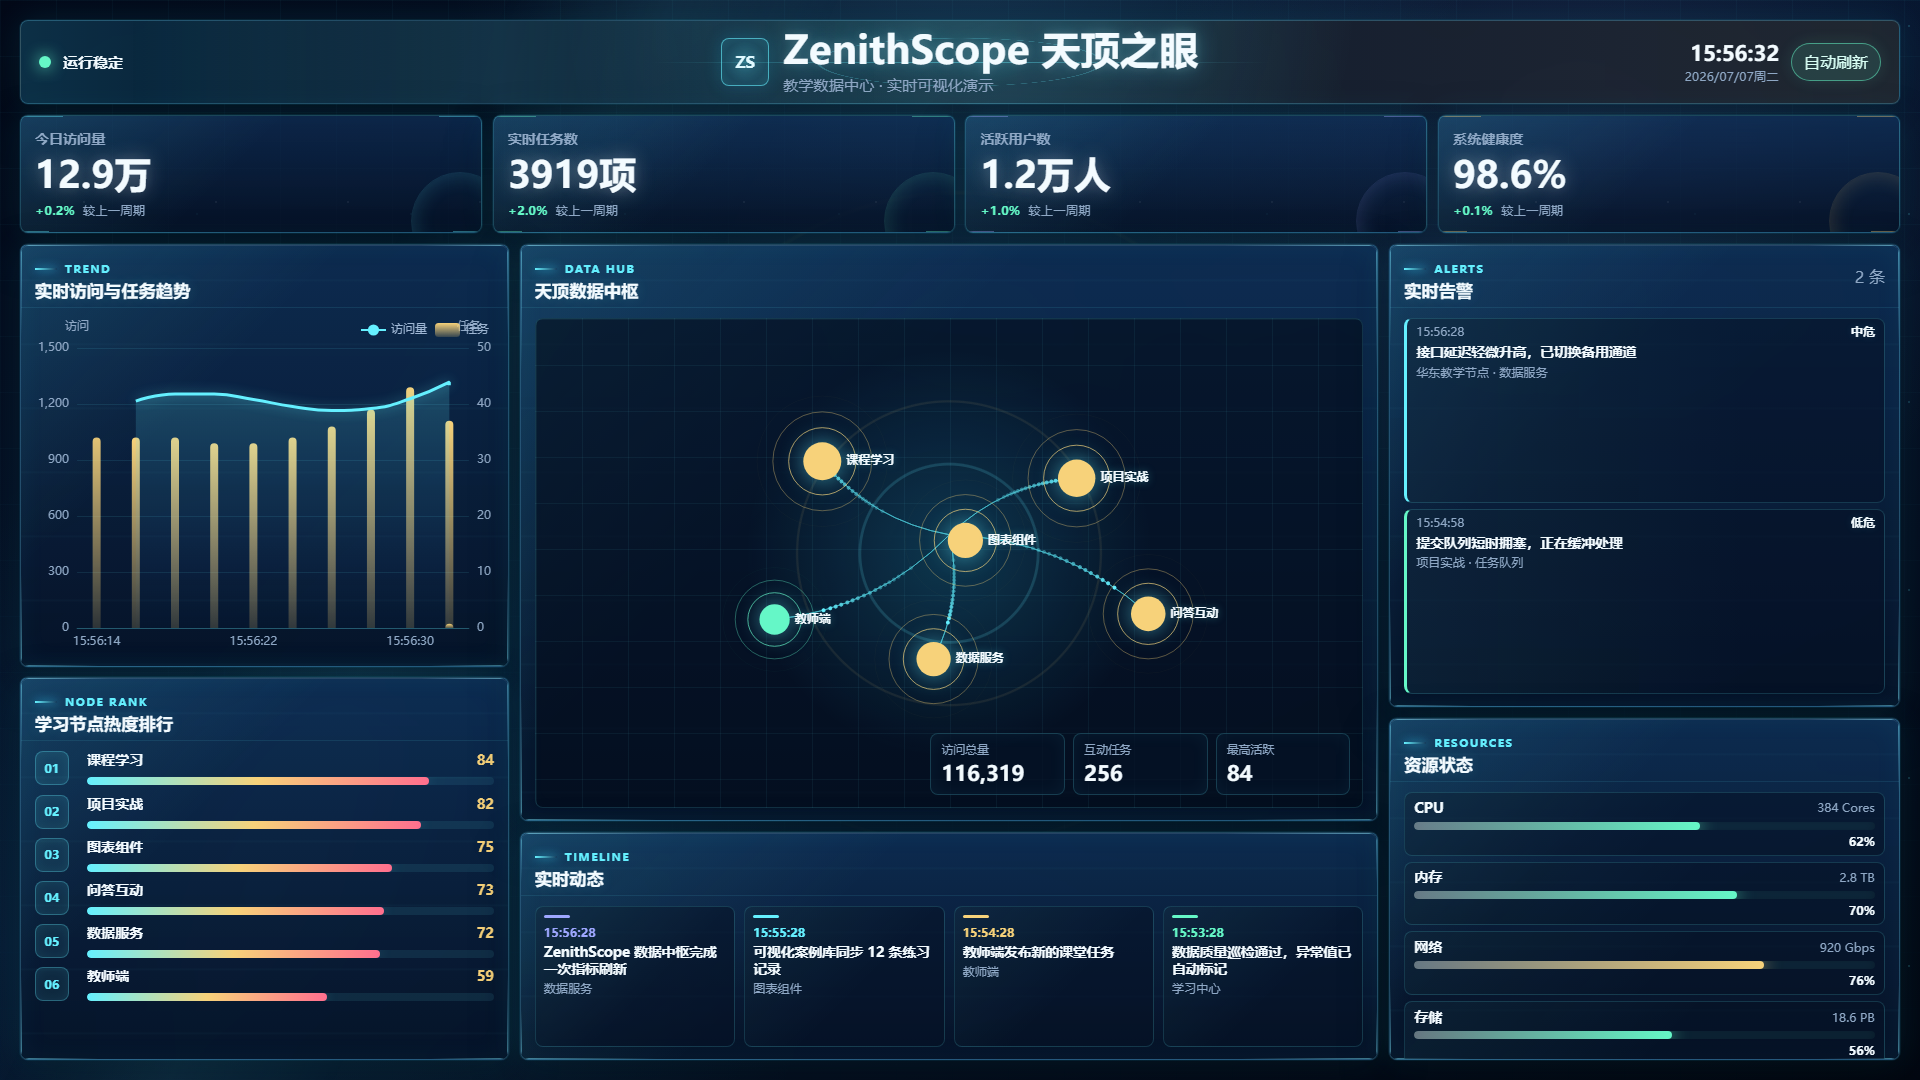
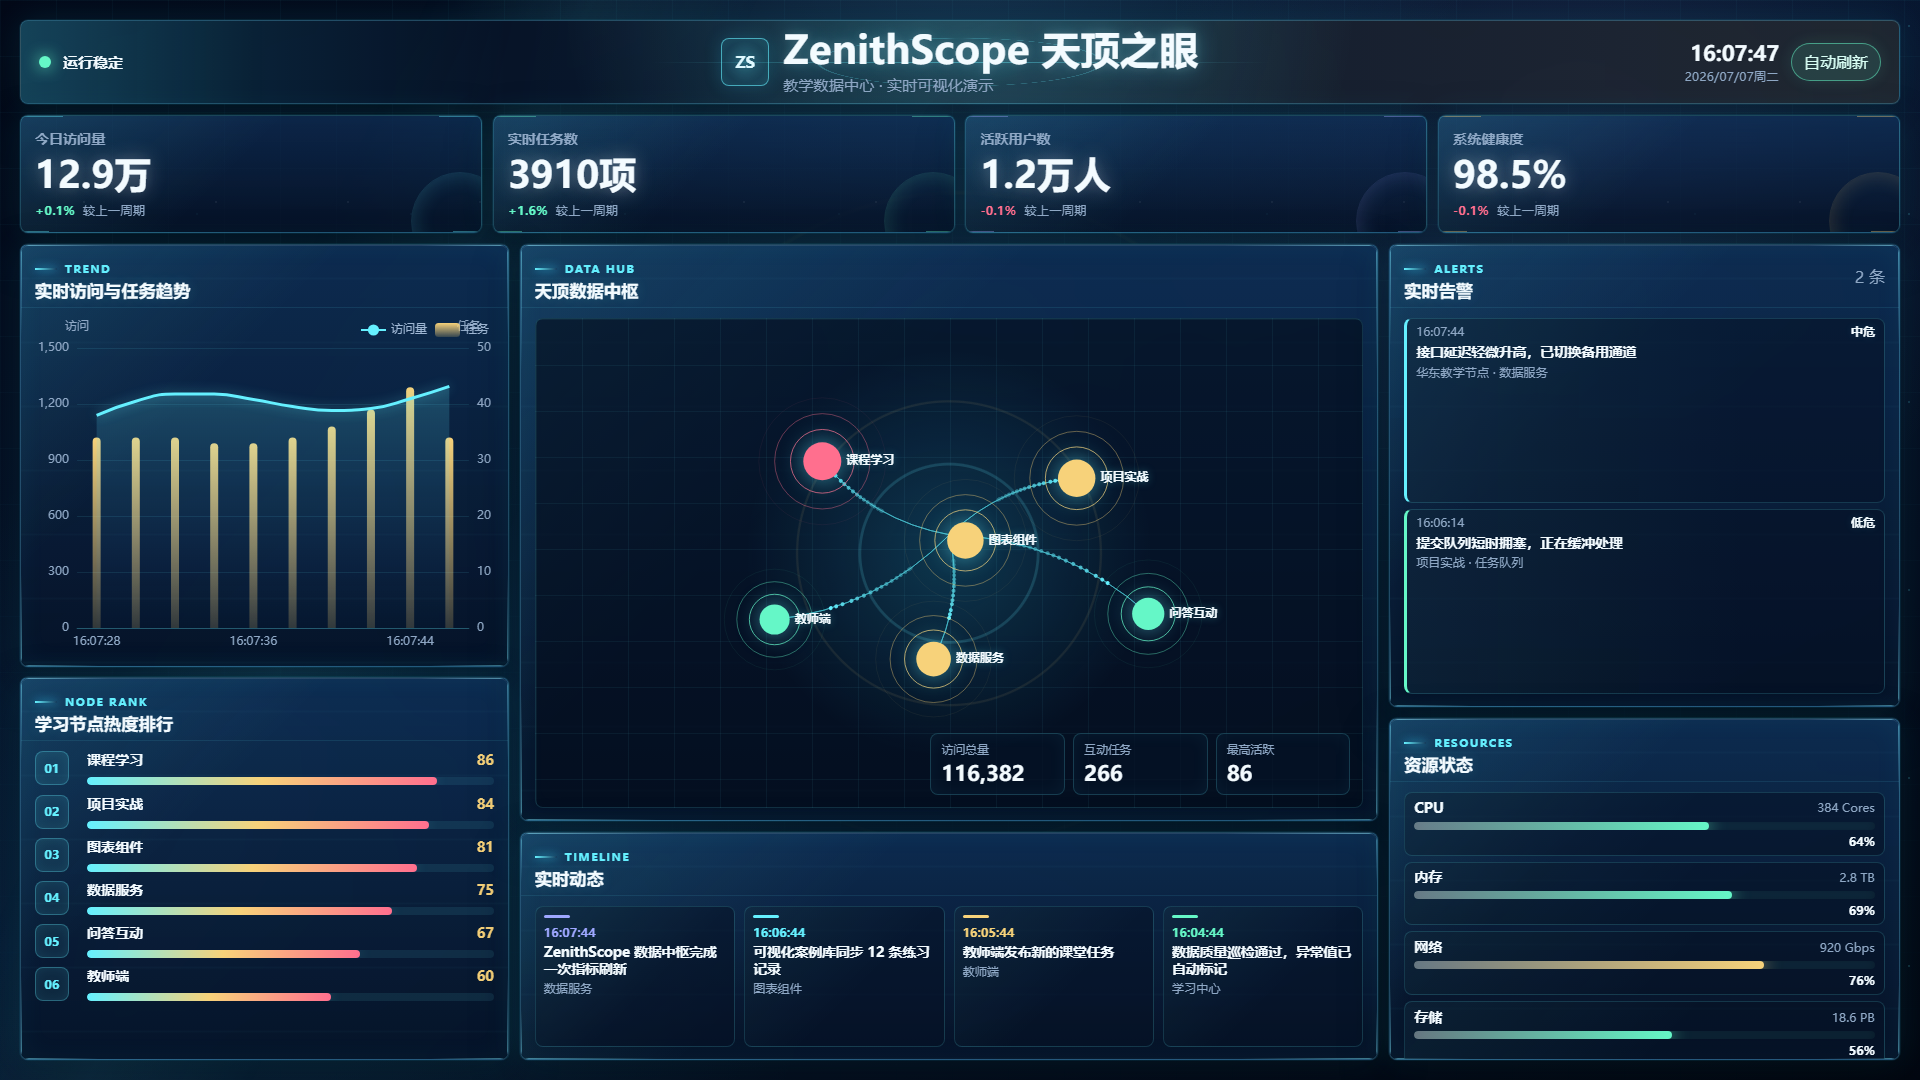
Update project documentation

diff --git a/README.md b/README.md
@@ -1,78 +1,151 @@
-# ZenithScope 天顶之眼
+# ZenithScope｜天顶之眼
 
-ZenithScope 是一个纯前端数据可视化大屏项目，第一阶段聚焦“城市运行监控 / 智慧运维 / 全域态势感知”。当前数据通过 MSW mock API 提供，页面层只依赖 service/query hook，后续可以把接口切到真实 API。
+ZenithScope｜天顶之眼是一个教学型数据可视化大屏项目，用纯前端工程展示如何从页面布局、图表封装、mock 数据到自动化测试，搭建一个完整的数据大屏示例。
 
-当前视觉主题为“天顶星穹科技蓝”：使用深蓝星穹背景、青蓝/冰蓝高亮、星辉金点缀和 HUD 面板质感，适合作为教学型数据大屏示例和开源项目截图展示。
+## 项目预览
 
-本项目保留 MIT License。
+![ZenithScope 天顶之眼](docs/screenshots/dashboard-1920x1080.png)
+
+当前界面采用“天顶星穹科技蓝”视觉风格，包含深色大屏背景、HUD 面板、实时指标、ECharts 图表和模拟数据刷新效果。截图文件位于 `docs/screenshots/dashboard-1920x1080.png`。
+
+## 项目简介
+
+本项目面向前端初学者、数据可视化学习者、课程实践和 AI 辅助编程课堂案例。它不是商业化后台系统，也没有默认接入真实后端；当前重点是把一个大屏项目拆成可学习、可运行、可测试的前端工程结构。
+
+项目页面通过 MSW 提供 mock API，业务组件不直接读取 mock 数据，而是经过 `dashboardApi`、`httpClient` 和 TanStack Query 获取数据。这样既方便本地教学演示，也为后续切换真实 API 留出清晰边界。
+
+## 核心特性
+
+- 纯前端数据大屏：基于 Vite、React 和 TypeScript 构建。
+- 16:9 大屏布局：面向 1920x1080 展示场景设计主页面。
+- ECharts 图表封装：统一封装基础图表组件和图表主题。
+- mock API 数据层：使用 MSW 拦截 `/api/dashboard/*` 接口。
+- 模拟实时变化：指标、趋势、节点、告警、动态和资源状态会按轮询刷新。
+- 状态管理示例：使用 Zustand 控制“自动刷新 / 暂停刷新”状态。
+- 查询层示例：使用 TanStack Query 管理多个 Dashboard 数据请求。
+- 自动化测试：包含 Vitest 单元测试、React Testing Library 组件测试和 Playwright E2E 测试。
+- 自动化截图：提供脚本生成 `docs/screenshots/dashboard-1920x1080.png`。
+- 工程规范：配置 TypeScript strict、ESLint 和 Prettier。
 
 ## 技术栈
 
-- Vite + React + TypeScript
-- Apache ECharts
-- TanStack Query
-- MSW
-- Zustand
-- Vitest + React Testing Library
-- Playwright
-- ESLint + Prettier + TypeScript strict
+| 方向 | 当前使用 |
+| --- | --- |
+| 前端框架 | React 19、React DOM |
+| 构建工具 | Vite 8 |
+| 开发语言 | TypeScript 6 |
+| 图表 | Apache ECharts |
+| 数据请求与缓存 | TanStack Query |
+| mock 数据 | MSW |
+| 状态管理 | Zustand |
+| 单元与组件测试 | Vitest、React Testing Library、jest-dom、user-event |
+| E2E 测试与截图 | Playwright |
+| 代码质量 | ESLint、Prettier、TypeScript strict |
 
-## 本地运行
+## 页面内容
+
+当前 Dashboard 页面入口为 `src/pages/DashboardPage/DashboardPage.tsx`，主应用入口为 `src/app/App.tsx`。页面由以下模块组成：
+
+- 顶部标题、运行状态、日期时间与自动刷新开关
+- 核心指标卡片：今日访问量、实时任务数、活跃用户数、系统健康度
+- 实时访问与任务趋势图
+- 学习节点热度排行
+- 天顶数据中枢节点图与摘要
+- 实时告警列表
+- 实时动态时间线
+- 资源状态面板
+
+## 实时数据模拟
+
+项目已经实现前端 mock 实时数据模拟，核心逻辑位于 `src/shared/mock/realtimeDashboardSimulator.ts`。TanStack Query 在自动刷新开启时每 2 秒重新请求数据，MSW handler 会返回模拟器中的当前数据帧。
+
+当前会模拟变化的内容包括：
+
+- 顶部核心指标数值和涨跌幅
+- 实时访问与任务趋势窗口
+- 天顶数据中枢节点活跃指数、访问量和互动任务
+- 实时动态列表
+- 实时告警列表
+- CPU、内存、网络、存储资源状态
+
+这些数据仍然是浏览器端 mock 数据，不代表真实后端或真实业务监控数据。
+
+## 项目结构
+
+```text
+.
+├─ docs/
+│  └─ screenshots/                 # 项目截图
+├─ e2e/                             # Playwright E2E 测试
+├─ public/                          # 静态资源与 MSW worker
+├─ scripts/
+│  └─ capture-dashboard.mjs         # 自动化截图脚本
+├─ src/
+│  ├─ app/                          # 应用入口、Provider、全局样式
+│  ├─ features/dashboard/           # Dashboard 类型、API、query hook、适配逻辑
+│  ├─ pages/DashboardPage/          # 大屏页面入口与页面样式
+│  ├─ shared/                       # API、mock、chart、store、ui、utils 等共享模块
+│  ├─ tests/                        # Vitest 测试与 setup
+│  └─ widgets/                      # Header、指标卡、图表、告警、排行等业务组件
+├─ package.json
+├─ playwright.config.ts
+├─ tsconfig.json
+└─ vite.config.ts
+```
+
+## 快速开始
+
+环境要求：
+
+- Node.js：建议使用当前 Vite 版本可支持的 LTS 或较新版本。
+- npm：项目已包含 `package-lock.json`，推荐使用 npm 安装依赖。
+
+安装依赖：
 
 ```bash
 npm install
-npm run dev
 ```
 
-默认访问 `http://localhost:5173`。开发环境默认启用 MSW mock。
-
-如需临时关闭 mock：
+启动开发服务，统一使用 10001 端口：
 
 ```bash
-VITE_ENABLE_MSW=false npm run dev
+npm run dev -- --host 127.0.0.1 --port 10001
 ```
 
-真实 API 地址可以通过 `VITE_API_BASE_URL` 注入，例如：
-
-```bash
-VITE_API_BASE_URL=https://api.example.com npm run dev
-```
-
-## 常用脚本
-
-- `npm run dev`：启动开发服务
-- `npm run build`：TypeScript 编译并构建生产包
-- `npm run preview`：预览生产构建
-- `npm run test`：运行 Vitest
-- `npm run test:e2e`：运行 Playwright 端到端测试
-- `npm run lint`：运行 ESLint
-- `npm run format`：运行 Prettier 格式化
-- `npm run typecheck`：运行 TypeScript strict 检查
-- `npm run quality`：依次执行 typecheck、lint、test、build
-
-## 目录结构
+浏览器访问：
 
 ```text
-src/
-  app/                 应用入口、Provider、全局样式
-  pages/               页面级模块
-  widgets/             大屏业务组件
-  features/dashboard/  Dashboard API、query hook、类型和适配逻辑
-  shared/api/          httpClient 和 endpoint
-  shared/chart/        ECharts 基础封装和图表主题
-  shared/config/       环境变量读取
-  shared/logger/       统一日志封装
-  shared/mock/         MSW browser、handlers 和 mock 数据
-  shared/store/        少量全局 UI 状态
-  shared/ui/           通用 UI 组件
-  shared/utils/        工具函数
-  tests/               Vitest/RTL 测试配置与单元测试
-e2e/                   Playwright 测试
+http://127.0.0.1:10001/
 ```
 
-## Mock/API 切换说明
+## 常用命令
 
-当前 mock 接口路径接近真实后端：
+以下命令均来自当前 `package.json`：
+
+| 命令 | 说明 |
+| --- | --- |
+| `npm run dev` | 启动 Vite 开发服务 |
+| `npm run build` | 执行 TypeScript 构建并打包生产文件 |
+| `npm run preview` | 本地预览生产构建结果 |
+| `npm run screenshot` | 生成 Dashboard 截图 |
+| `npm run screenshot:dashboard` | 生成 Dashboard 截图，和 `screenshot` 使用同一脚本 |
+| `npm run test` | 运行 Vitest 测试 |
+| `npm run test:ui` | 启动 Vitest UI |
+| `npm run test:e2e` | 运行 Playwright E2E 测试 |
+| `npm run lint` | 运行 ESLint |
+| `npm run format` | 使用 Prettier 格式化项目文件 |
+| `npm run typecheck` | 执行 TypeScript 类型检查 |
+| `npm run quality` | 依次运行 typecheck、lint、test、build |
+
+## 数据源说明
+
+开发环境默认启用 MSW mock：
+
+```ts
+enableMocking: import.meta.env.DEV && import.meta.env.VITE_ENABLE_MSW !== 'false'
+```
+
+当前 mock 接口包括：
 
 - `GET /api/dashboard/overview`
 - `GET /api/dashboard/trends`
@@ -81,18 +154,94 @@ e2e/                   Playwright 测试
 - `GET /api/dashboard/resources`
 - `GET /api/dashboard/timeline`
 
-页面组件不直接读取 mock 数据。数据流为：
+数据流为：
 
-`组件 -> useDashboardQueries -> dashboardApi -> httpClient -> endpoint`
+```text
+Dashboard 组件 -> useDashboardQueries -> dashboardApi -> httpClient -> /api/dashboard/*
+```
 
-切换真实 API 时，优先设置 `VITE_ENABLE_MSW=false` 和 `VITE_API_BASE_URL`，接口字段保持一致即可。
+如需关闭 MSW 并尝试连接真实 API，可以设置：
 
-## 测试和代码质量
+```bash
+VITE_ENABLE_MSW=false
+VITE_API_BASE_URL=https://api.example.com
+```
 
-项目开启 TypeScript strict。关键工具函数、Dashboard 数据适配逻辑、核心指标卡组件均有 Vitest/RTL 覆盖；Playwright 包含首页基础可见性检查。
+前提是目标 API 返回的数据结构与 `src/features/dashboard/types.ts` 中定义的类型保持一致。当前仓库没有内置真实后端服务。
 
-提交前建议运行：
+## 自动化截图
+
+项目已经提供截图脚本：
+
+```bash
+npm run screenshot
+```
+
+脚本会访问默认地址：
+
+```text
+http://127.0.0.1:10001/
+```
+
+默认输出：
+
+```text
+docs/screenshots/dashboard-1920x1080.png
+```
+
+运行截图命令前需要先启动开发服务：
+
+```bash
+npm run dev -- --host 127.0.0.1 --port 10001
+```
+
+也可以通过 `DASHBOARD_URL` 指定截图目标地址。
+
+## 测试与质量保障
+
+当前项目已经配置并使用以下质量保障方式：
+
+- TypeScript strict：通过 `npm run typecheck` 检查类型。
+- ESLint：通过 `npm run lint` 检查代码问题。
+- Prettier：通过 `npm run format` 统一格式。
+- Vitest：覆盖工具函数、Dashboard 数据适配、mock API 和实时模拟器。
+- React Testing Library：覆盖核心指标卡组件渲染。
+- Playwright：检查 Dashboard 页面核心内容和基础运行状态。
+- 构建验证：通过 `npm run build` 执行类型构建和生产打包。
+
+提交或展示前建议运行：
 
 ```bash
 npm run quality
+npm run test:e2e
 ```
+
+## 适合学习什么
+
+通过这个项目，初学者可以重点学习：
+
+- 数据大屏项目的目录组织方式
+- 16:9 大屏页面布局与响应式约束
+- ECharts 在 React 中的基础封装方式
+- mock 数据、API service 和页面组件之间的分层
+- TanStack Query 的多接口查询与轮询刷新
+- Zustand 在局部 UI 状态中的使用
+- 前端模拟实时数据变化的实现方式
+- Vitest、React Testing Library 与 Playwright 的基本测试组合
+- 自动化截图在开源展示和课程材料中的使用
+- 用工程化方式维护教学项目，而不是只写静态页面
+
+## 后续计划
+
+这些方向适合作为后续课程或迭代内容：
+
+- 接入真实 API 示例，并补充字段映射说明。
+- 增加更多图表组件，例如占比图、雷达图、地图或关系网络。
+- 增加主题切换能力。
+- 增加视觉回归测试，降低大屏样式回退风险。
+- 增加部署示例和公开预览地址。
+- 完善课程讲解文档、步骤拆解和练习任务。
+
+## License
+
+本项目使用 MIT License，详见 [LICENSE](LICENSE)。